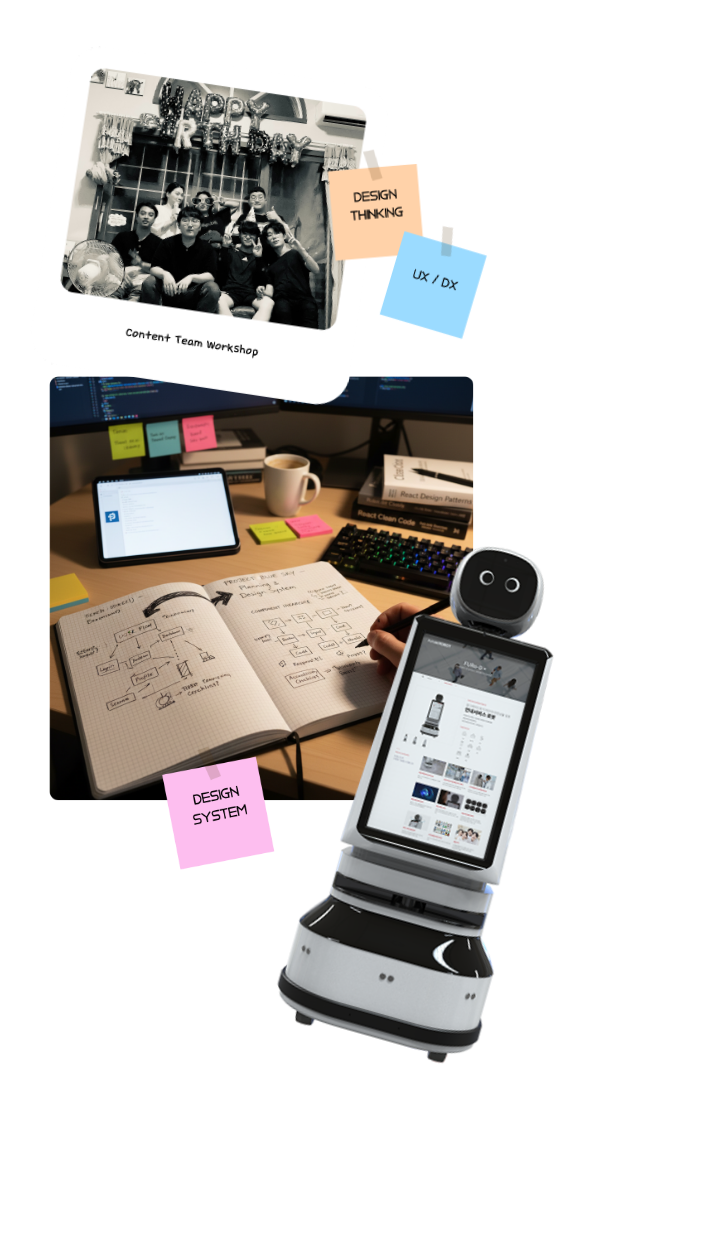
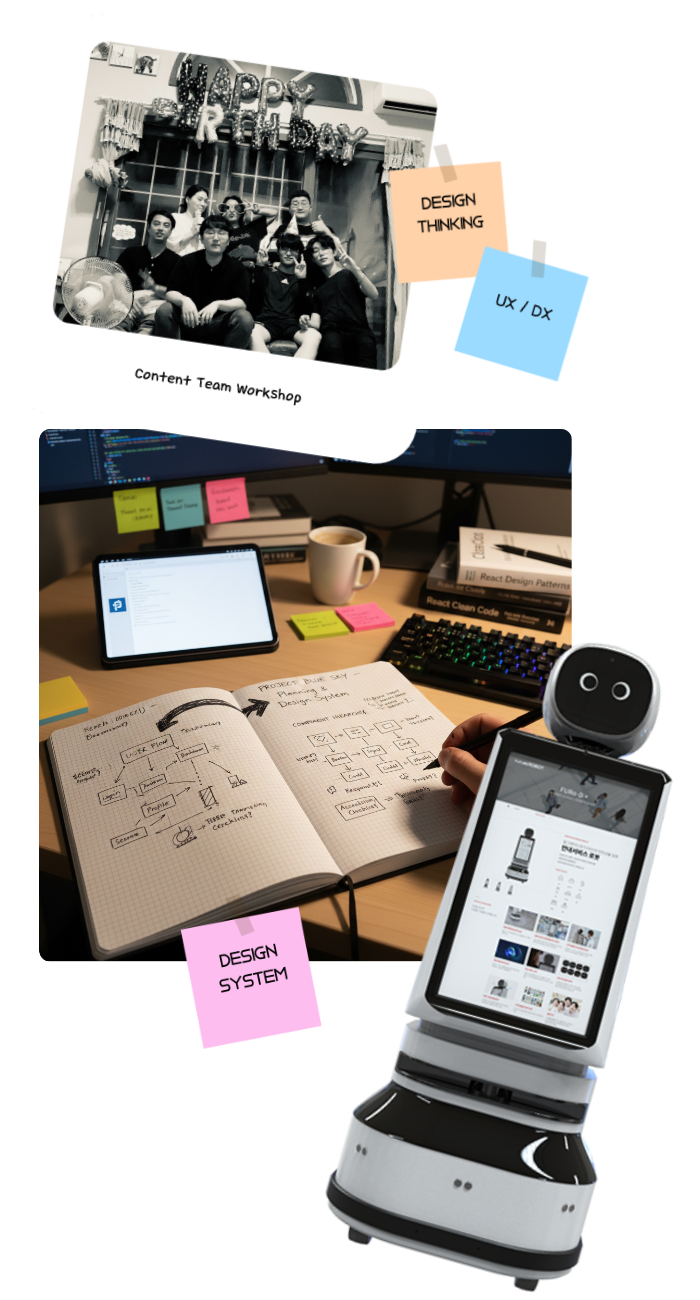
feat(intro): 소개 섹션 상세 이미지 추가

diff --git a/app/components/home/IntroSection1.tsx b/app/components/home/IntroSection1.tsx
@@ -31,7 +31,7 @@ const BULLETS: React.ReactNode[] = [
   </>,
 ];
 
-const IMAGE = { src: '/images/detail/detail.png', alt: '프론트엔드 개발 및 협업 관련 콘셉트 이미지' } as const;
+const IMAGE = { src: '/images/detail/detail-1.png', alt: '프론트엔드 개발 및 협업 관련 콘셉트 이미지' } as const;
 
 export default function IntroSection1() {
   return <IntroSection imagePosition='right' titleColor='text-[#FFD2A9]' title={TITLE} bullets={BULLETS} image={IMAGE} />;

diff --git a/app/components/home/IntroSection2.tsx b/app/components/home/IntroSection2.tsx
@@ -20,7 +20,7 @@ const BULLETS: React.ReactNode[] = [
   </>,
 ];
 
-const IMAGE = { src: '/images/detail/detail.png', alt: '프론트엔드 개발 및 협업 관련 콘셉트 이미지' } as const;
+const IMAGE = { src: '/images/detail/detail-2.png', alt: '프론트엔드 개발 및 협업 관련 콘셉트 이미지' } as const;
 
 export default function IntroSection2() {
   return <IntroSection imagePosition='left' titleColor='text-[#86B8FE]' title={TITLE} bullets={BULLETS} image={IMAGE} />;
